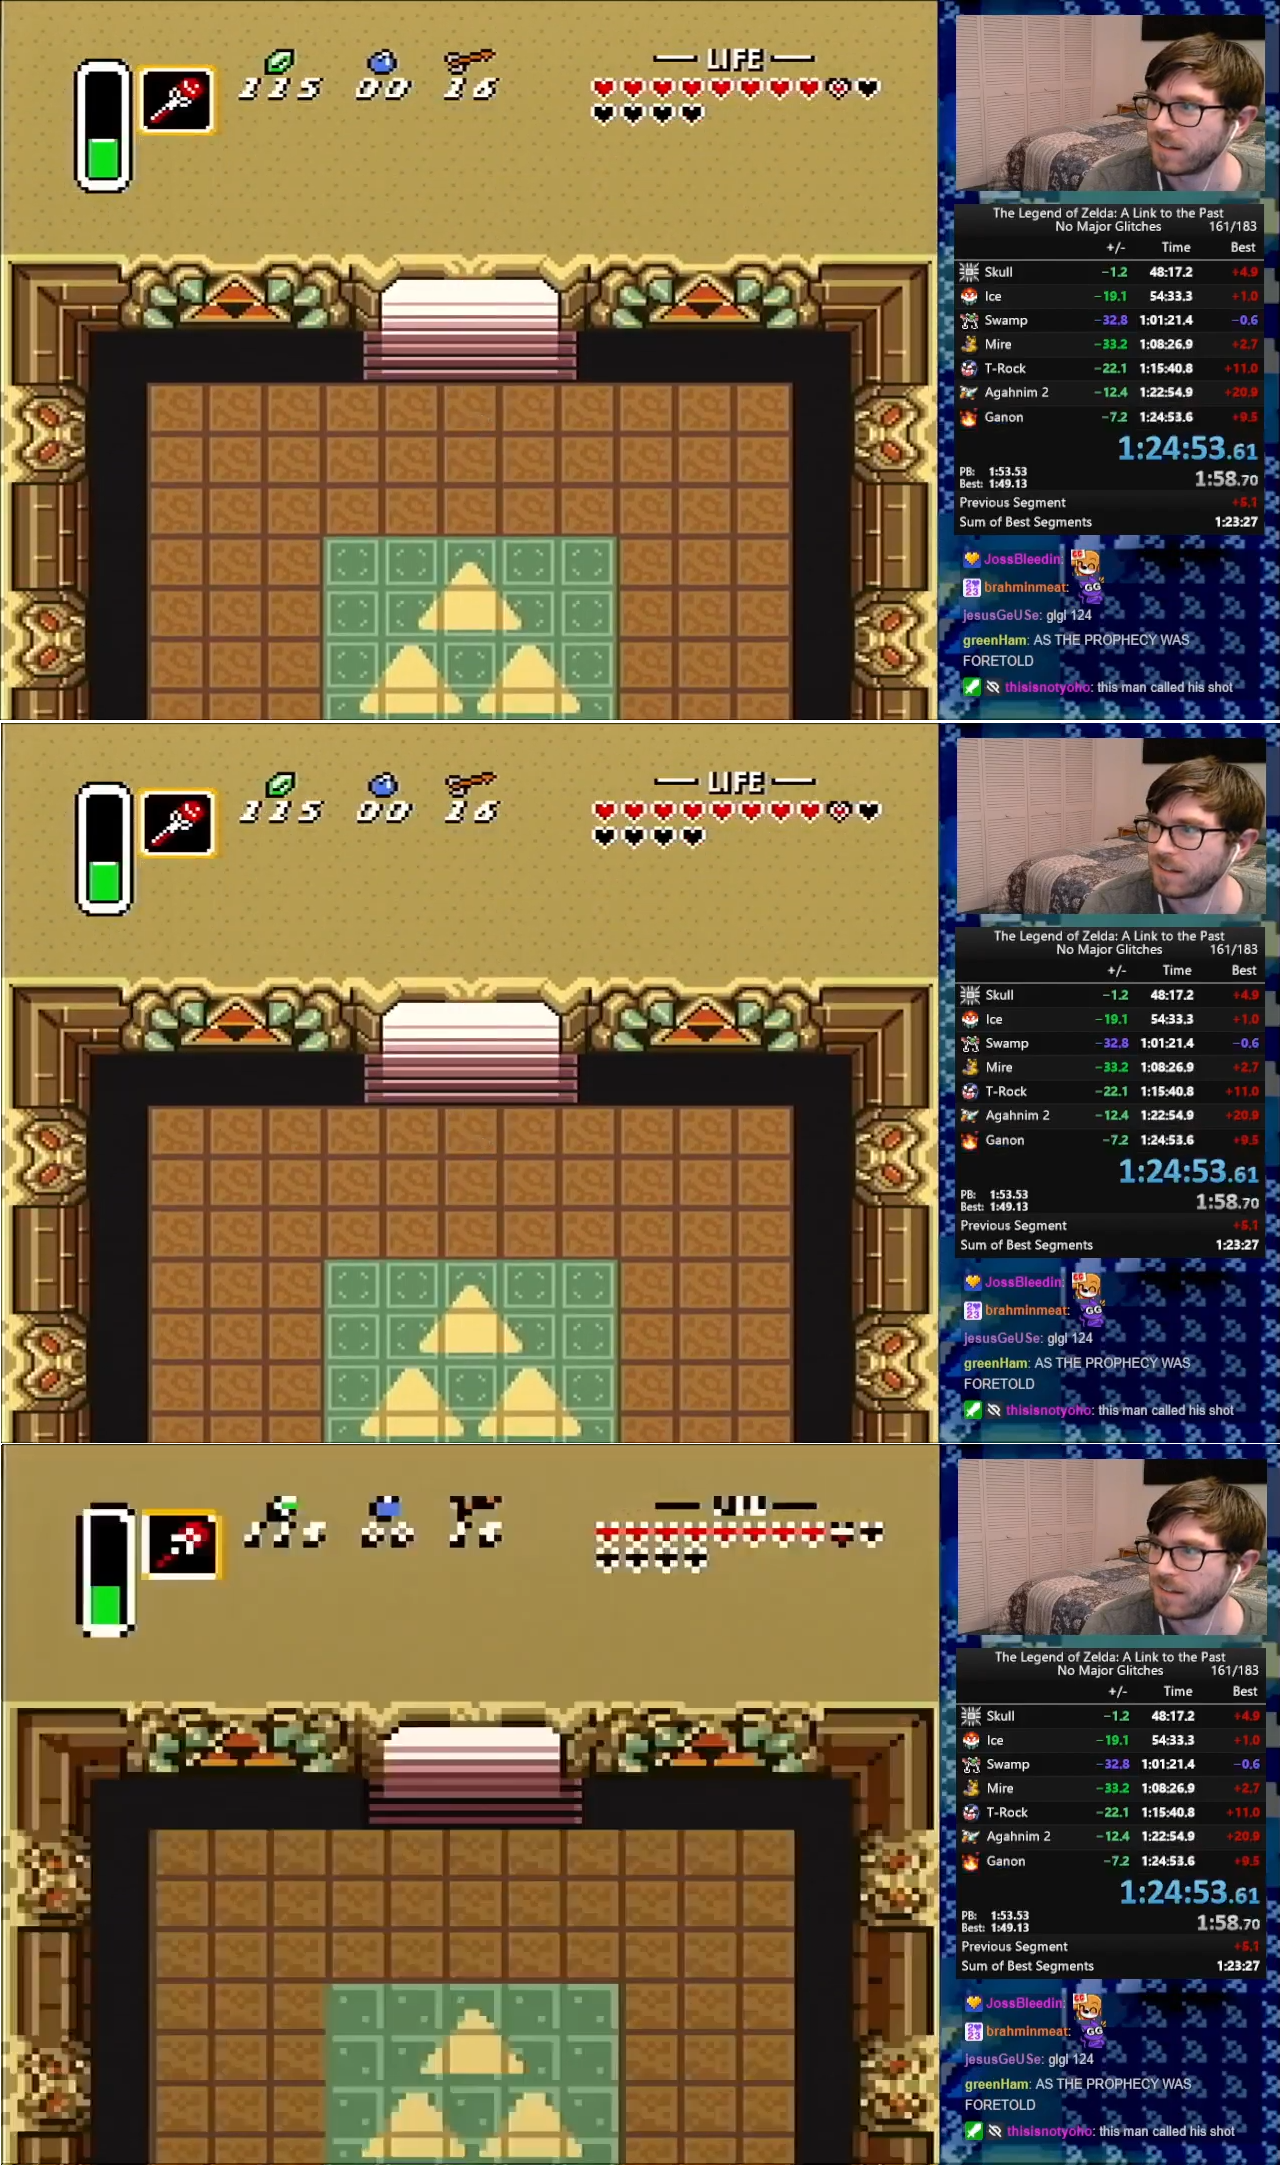
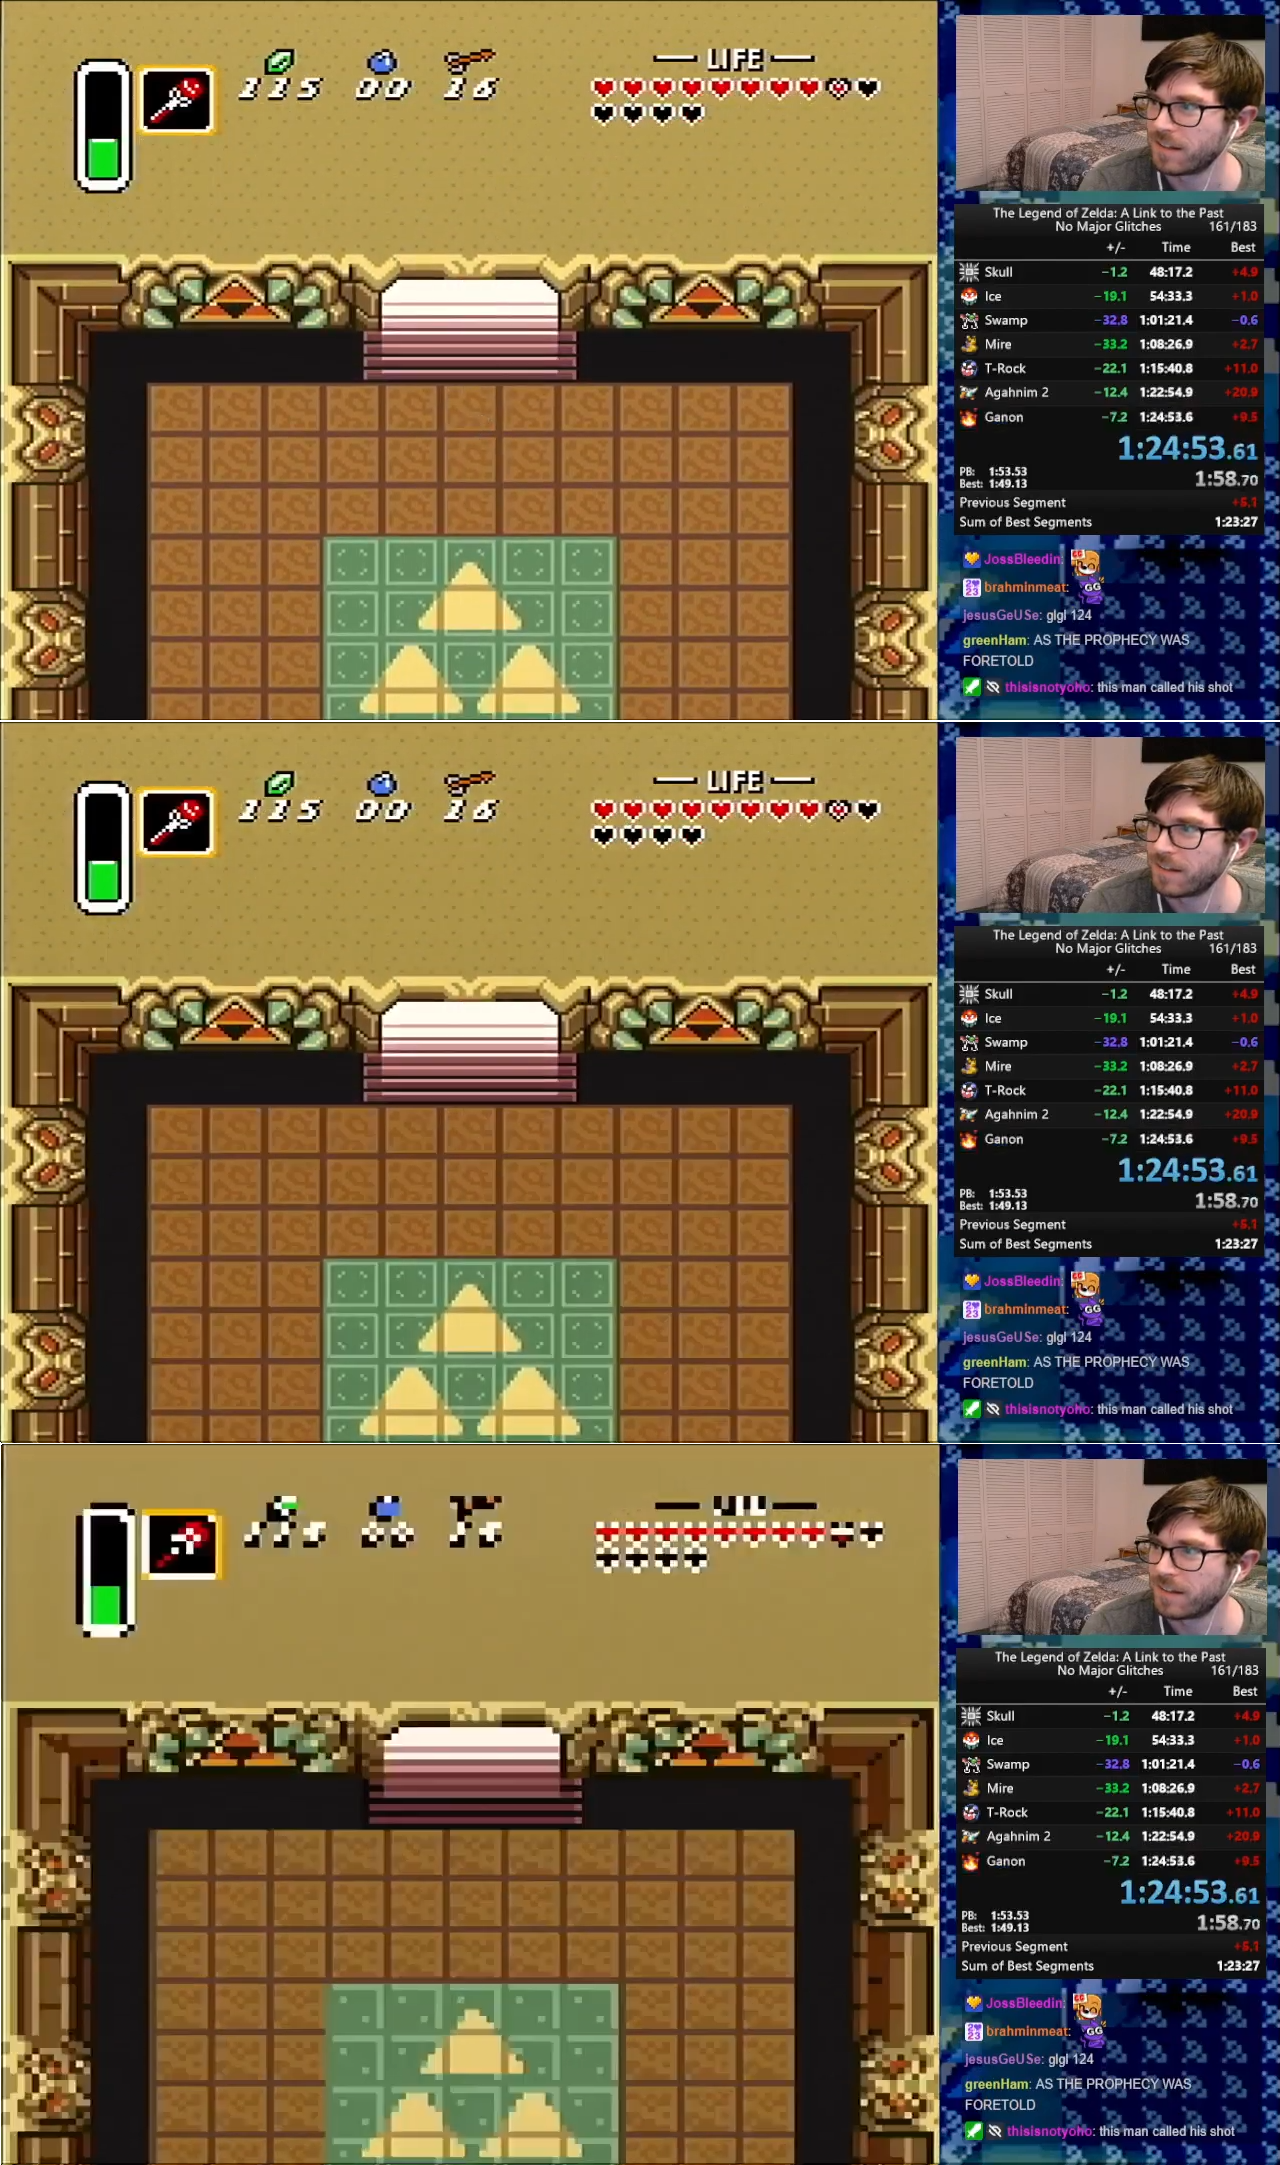
darkening frames

diff --git a/mod_stuff/timing/README.md b/mod_stuff/timing/README.md
@@ -37,6 +37,10 @@ Some things to notice here:
 
 ![last_frame_triforce](triforce_transition_triptych.png)
 
+This image is edited with the left half being the normal colours and the right have being from the final, darkened frame:
+
+![triforce_darkening](triforce_darkening_split.png)
+
 # Timing Process
 
 I am once again working with [Chexhuman's 1:24:53](https://www.youtube.com/watch?v=chIS1QJ9vaI). I will explain a few ways to go about determining the duration of this video.
